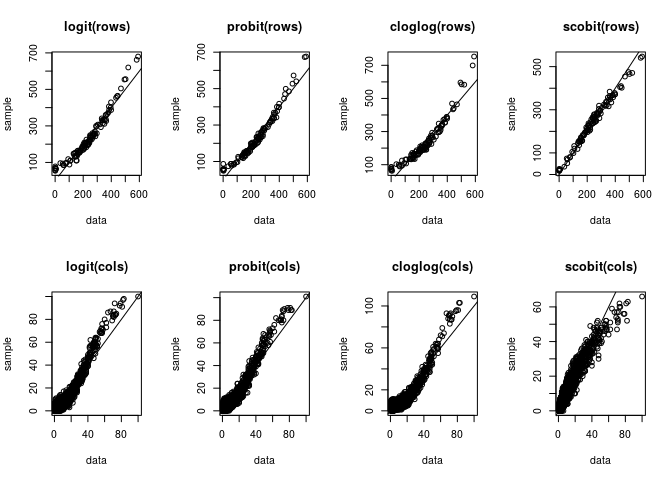
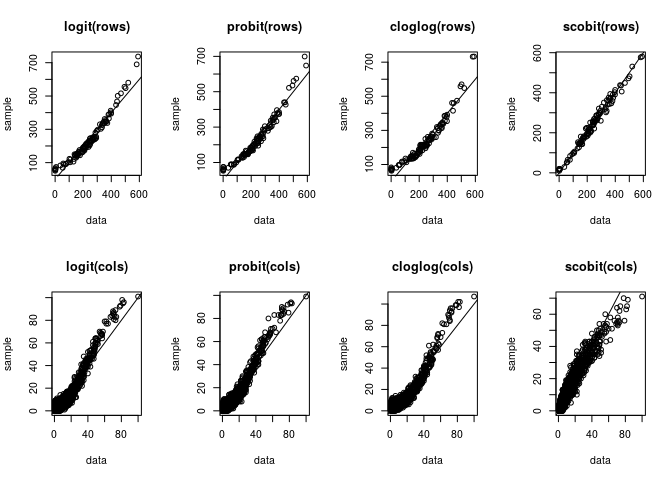
implemented scobit gradients

diff --git a/src/scobit.cpp b/src/scobit.cpp
@@ -1,0 +1,85 @@
+#include <Rcpp.h>
+using namespace Rcpp;
+
+// This is a simple example of exporting a C++ function to R. You can
+// source this function into an R session using the Rcpp::sourceCpp
+// function (or via the Source button on the editor toolbar). Learn
+// more about Rcpp at:
+//
+//   http://www.rcpp.org/
+//   http://adv-r.had.co.nz/Rcpp.html
+//   http://gallery.rcpp.org/
+//
+
+// [[Rcpp::export]]
+double scobit_loglike_cpp(NumericVector x1, NumericVector x2, NumericVector y,
+                          NumericVector params) {
+  int n = x1.length();
+  double b0 = params[0];
+  double b1 = params[1];
+  double b2 = params[2];
+  double b3 = params[3];
+  double a  = params[4];
+  double f = 0;
+
+  for(int i=0; i<n;i++){
+    // f= f+ (1 - y[i])*log(pow(1 + exp(b0+b1*x1[i]+b2*x2[i]+b3*x1[i]*x2[i]),-a)) +
+    //   y*log(1-pow(1+exp(b0+b1*x1[i]+b2*x2[i]+b3*x1[i]*x2[i]),-a));
+    f+= (1 - y[i])*log(pow(1 + exp(b0+b1*x1[i]+b2*x2[i]+b3*x1[i]*x2[i]),-a))+y[i]*log(1-pow(1+exp(b0+b1*x1[i]+b2*x2[i]+b3*x1[i]*x2[i]),-a));
+  }
+  if(f!=f){
+    f=-10000000000;
+  }
+  return -f;
+}
+
+// [[Rcpp::export]]
+NumericVector scobit_loglike_gr_cpp(NumericVector x1, NumericVector x2, NumericVector y,
+                                    NumericVector params){
+  int n = x1.length();
+  double b0 = params[0];
+  double b1 = params[1];
+  double b2 = params[2];
+  double b3 = params[3];
+  double a  = params[4];
+  // double f = 0;
+  NumericVector Fexp(n);
+  NumericVector Fexp1a(n);
+  for(int i=0; i<n;i++){
+    Fexp[i]   = exp(b0+b1*x1[i]+b2*x2[i]+b3*x1[i]*x2[i]);
+    Fexp1a[i] = pow(1+exp(b0+b1*x1[i]+b2*x2[i]+b3*x1[i]*x2[i]),-a);
+  }
+
+  NumericVector derivFb0(n);
+  NumericVector derivFb1(n);
+  NumericVector derivFb2(n);
+  NumericVector derivFb3(n);
+  NumericVector derivFa(n);
+  for(int i=0; i<n;i++){
+    derivFb0[i] = -a*Fexp[i]*pow(1+Fexp[i],-(a+1));
+    derivFb1[i] = -a*Fexp[i]*pow(1+Fexp[i],-(a+1))*x1[i];
+    derivFb2[i] = -a*Fexp[i]*pow(1+Fexp[i],-(a+1))*x2[i];
+    derivFb3[i] = -a*Fexp[i]*pow(1+Fexp[i],-(a+1))*x1[i]*x2[i];
+    derivFa[i]  = -log(1+Fexp[i])*Fexp1a[i];
+  }
+  NumericVector derivLb0(n);
+  NumericVector derivLb1(n);
+  NumericVector derivLb2(n);
+  NumericVector derivLb3(n);
+  NumericVector derivLa(n);
+  for(int i=0; i<n;i++){
+    derivLb0[i] =-1 * (-y[i]/(1-Fexp1a[i]) + (1-y[i])/(Fexp1a[i])) * derivFb0[i];
+    derivLb1[i] =-1 * (-y[i]/(1-Fexp1a[i]) + (1-y[i])/(Fexp1a[i])) * derivFb1[i];
+    derivLb2[i] =-1 * (-y[i]/(1-Fexp1a[i]) + (1-y[i])/(Fexp1a[i])) * derivFb2[i];
+    derivLb3[i] =-1 * (-y[i]/(1-Fexp1a[i]) + (1-y[i])/(Fexp1a[i])) * derivFb3[i];
+    derivLa[i]  =-1 * (-y[i]/(1-Fexp1a[i]) + (1-y[i])/Fexp1a[i]) * derivFa[i];
+  }
+  NumericVector res(5);
+  res[0] = sum(derivLb0);
+  res[1] = sum(derivLb1);
+  res[2] = sum(derivLb2);
+  res[3] = sum(derivLb3);
+  res[4] = sum(derivLa);
+
+  return res;
+}

diff --git a/src/RcppExports.cpp b/src/RcppExports.cpp
@@ -68,6 +68,34 @@ BEGIN_RCPP
     return rcpp_result_gen;
 END_RCPP
 }
+// scobit_loglike_cpp
+double scobit_loglike_cpp(NumericVector x1, NumericVector x2, NumericVector y, NumericVector params);
+RcppExport SEXP _levelnet_scobit_loglike_cpp(SEXP x1SEXP, SEXP x2SEXP, SEXP ySEXP, SEXP paramsSEXP) {
+BEGIN_RCPP
+    Rcpp::RObject rcpp_result_gen;
+    Rcpp::RNGScope rcpp_rngScope_gen;
+    Rcpp::traits::input_parameter< NumericVector >::type x1(x1SEXP);
+    Rcpp::traits::input_parameter< NumericVector >::type x2(x2SEXP);
+    Rcpp::traits::input_parameter< NumericVector >::type y(ySEXP);
+    Rcpp::traits::input_parameter< NumericVector >::type params(paramsSEXP);
+    rcpp_result_gen = Rcpp::wrap(scobit_loglike_cpp(x1, x2, y, params));
+    return rcpp_result_gen;
+END_RCPP
+}
+// scobit_loglike_gr_cpp
+NumericVector scobit_loglike_gr_cpp(NumericVector x1, NumericVector x2, NumericVector y, NumericVector params);
+RcppExport SEXP _levelnet_scobit_loglike_gr_cpp(SEXP x1SEXP, SEXP x2SEXP, SEXP ySEXP, SEXP paramsSEXP) {
+BEGIN_RCPP
+    Rcpp::RObject rcpp_result_gen;
+    Rcpp::RNGScope rcpp_rngScope_gen;
+    Rcpp::traits::input_parameter< NumericVector >::type x1(x1SEXP);
+    Rcpp::traits::input_parameter< NumericVector >::type x2(x2SEXP);
+    Rcpp::traits::input_parameter< NumericVector >::type y(ySEXP);
+    Rcpp::traits::input_parameter< NumericVector >::type params(paramsSEXP);
+    rcpp_result_gen = Rcpp::wrap(scobit_loglike_gr_cpp(x1, x2, y, params));
+    return rcpp_result_gen;
+END_RCPP
+}
 
 static const R_CallMethodDef CallEntries[] = {
     {"_levelnet_arcDist", (DL_FUNC) &_levelnet_arcDist, 3},
@@ -75,6 +103,8 @@ static const R_CallMethodDef CallEntries[] = {
     {"_levelnet_choose", (DL_FUNC) &_levelnet_choose, 2},
     {"_levelnet_hypergeom", (DL_FUNC) &_levelnet_hypergeom, 3},
     {"_levelnet_isBipartite", (DL_FUNC) &_levelnet_isBipartite, 3},
+    {"_levelnet_scobit_loglike_cpp", (DL_FUNC) &_levelnet_scobit_loglike_cpp, 4},
+    {"_levelnet_scobit_loglike_gr_cpp", (DL_FUNC) &_levelnet_scobit_loglike_gr_cpp, 4},
     {NULL, NULL, 0}
 };
 

diff --git a/README.md b/README.md
@@ -15,7 +15,7 @@ Neal
 It also implements the fairly unknown (but in the case of SDSM useful)
 scobit model.
 
-The package also contains a lot of undocumented functions, which can be
+The package still contains a lot of undocumented functions, which can be
 ignored for now.
 
 ## Installation
@@ -23,8 +23,8 @@ ignored for now.
 You can install the developers version of levelnet with:
 
 ``` r
-# install.packages("devtools")
-devtools::install_github("schochastics/levelnet")
+# install.packages("remotes")
+remotes::install_github("schochastics/levelnet")
 ```
 
 ## Example of `sdsm`
@@ -52,31 +52,41 @@ g <- bipartite_from_data_frame(cosponsor_senate_15,"name","bill")
 ```
 
 The function `sdsm_diagnostic` checks the performance of several link
-function. The default optimization method for the MLE of the scobit
-model is “BFGS”. However, I noticed that it often runs into convergence
-issues (like for this dataset). A more robust method is “Nelder-Mead”
-which is a little bit more time consuming. You may still run into
-convergence problems. If so, try to adjust the parameter vector.
+functions. The default optimization method for the MLE of the scobit
+model is “BFGS”. ~~However, I noticed that it often runs into
+convergence issues (like for this dataset). A more robust method is
+“Nelder-Mead” which is a little bit more time consuming. You may still
+run into convergence problems. If so, try to adjust the parameter
+vector.~~
+
+**Version 0.2.0 implements the gradients of the scobit function
+explicitly which facilitates the optimization**.
 
 ``` r
 params <- list(b0=1e-5,b1=1e-5,b2=1e-5,b3=1e-5,a=0.8)
-sdsm_diagnostic(g,verbose=FALSE,params = params,method="Nelder-Mead")
+sdsm_diagnostic(g,verbose=FALSE,params = params)
 ```
 
 <img src="man/figures/README-diagnostics-1.png" width="100%" />
 
     #>      name rmse_row rmse_col   time
-    #> 1   logit 32.58686 3.540320  0.024
-    #> 2  probit 28.82001 3.244426  0.049
-    #> 3 cloglog 39.50374 4.189334  0.029
-    #> 4  scobit 18.93134 2.770374 48.091
+    #> 1   logit 32.77512 3.534850  1.725
+    #> 2  probit 29.10691 3.275086  2.203
+    #> 3 cloglog 38.88990 4.171808  6.477
+    #> 4  scobit 15.37263 2.736871 37.541
+
+Note that there is no significant speed up for the scobit model to the
+previous version (runtime was ~50 sec). The gradient function is rather
+complicated and needs to be evaluated many times during the optimization
+process. This and the scobit function evaluation are the main
+bottleneck.
 
 As was noted in the paper, the scobit model produces the best fit of the
 data.
 
 ``` r
 params <- list(b0=1e-5,b1=1e-5,b2=1e-5,b3=1e-5,a=0.8)
-l <- sdsm(g,proj = "true",model="scobit",params = params,method="Nelder-Mead")
+l <- sdsm(g,proj = "true",model="scobit",params = params)
 ```
 
 <img src="man/figures/README-graph.png" width="80%" style="display: block; margin: auto;"/>

diff --git a/NEWS.md b/NEWS.md
@@ -1,0 +1,10 @@
+# levelnet 0.2.0.9000
+
+* implemented scobit function in C++
+* added scobit gradient function in C++
+* MLE of scobit model is now performed with `optim` and the gradients
+
+# levelnet 0.1.0.9000
+
+* implemented the `sdsm` model
+* many other undocumented functions
